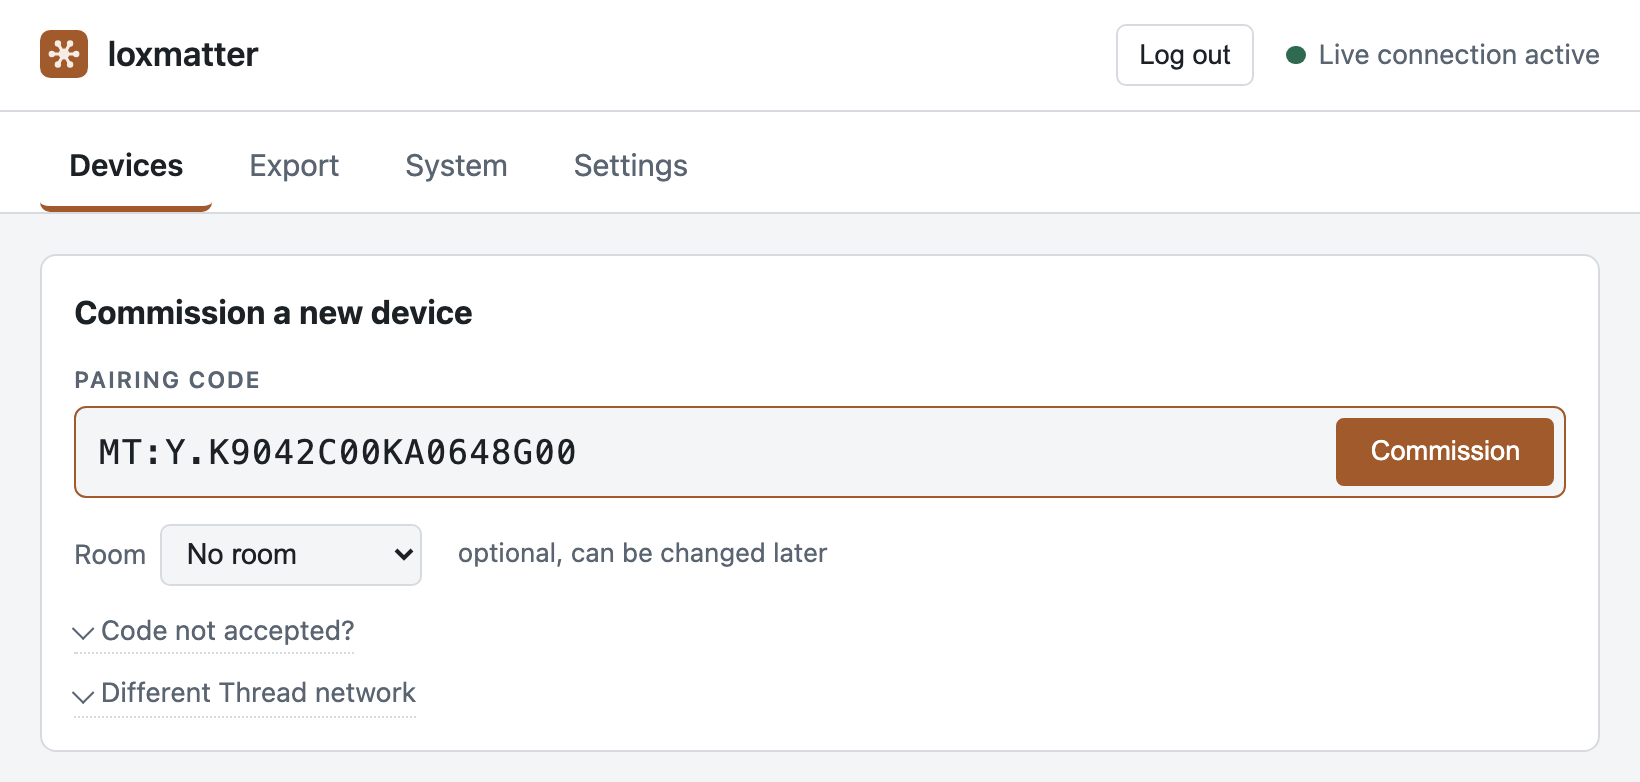
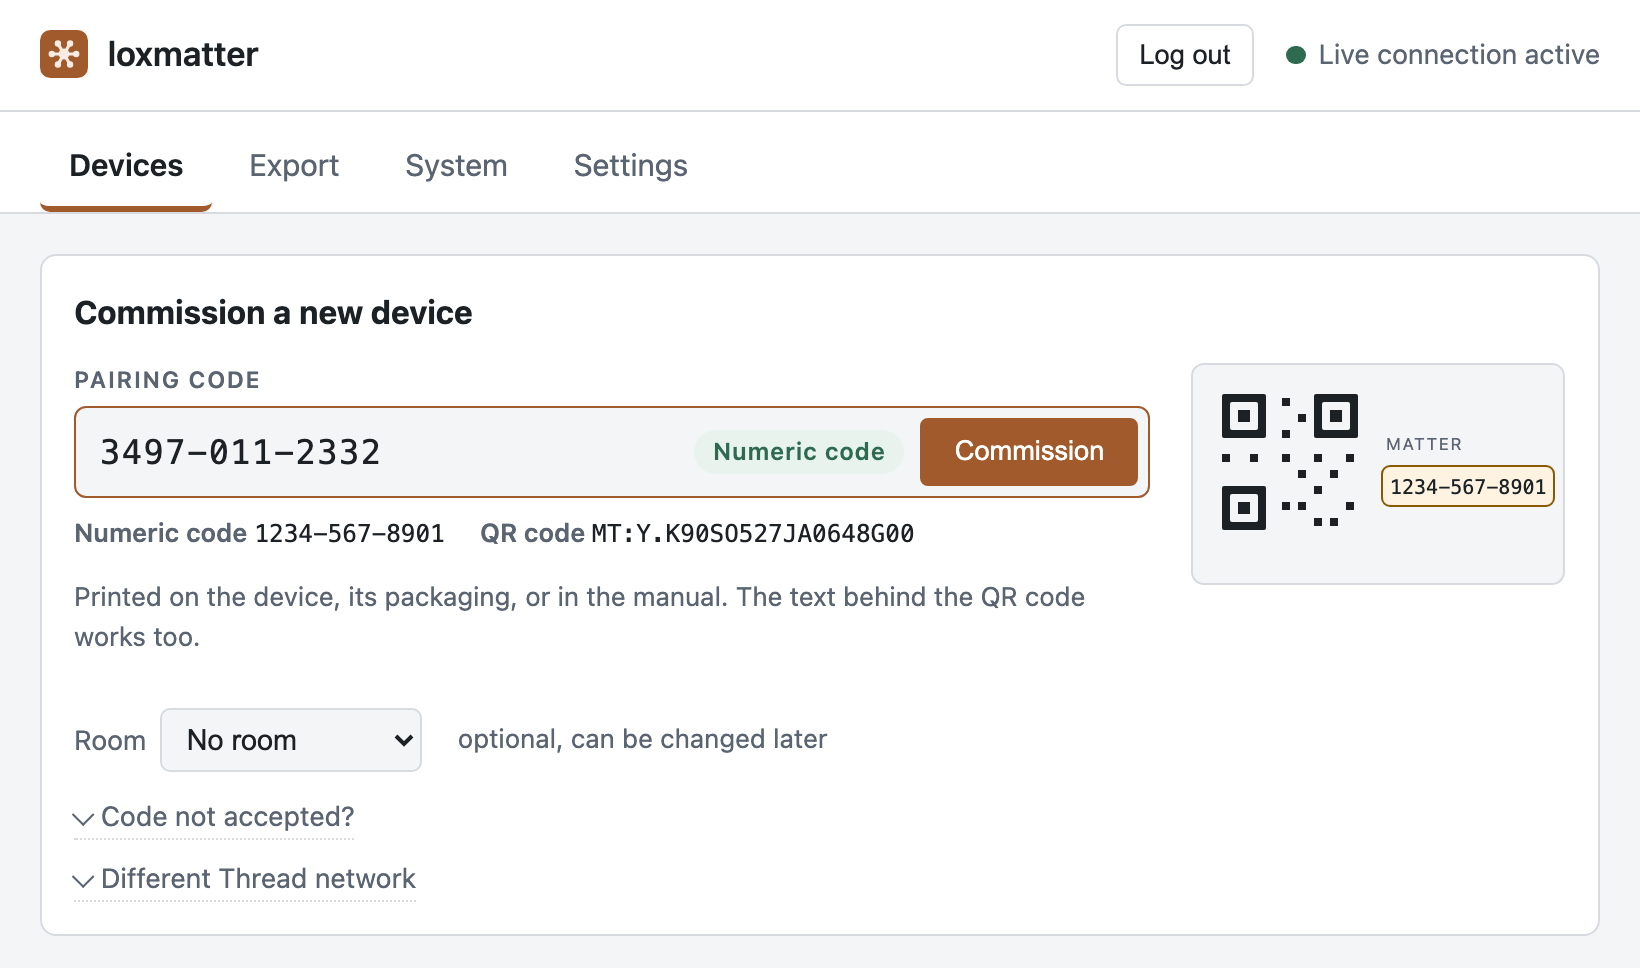
docs(screenshots): Einlern-Karte mit Codeformat neu aufnehmen
Der Selektor haengt nicht mehr am Platzhaltertext - der ist jetzt die
Ziffernfolge selbst, und input[placeholder*="MT:"] fand nichts mehr.

diff --git a/scripts/capture_screenshots.py b/scripts/capture_screenshots.py
@@ -272,7 +272,18 @@ def capture(page: Page) -> None:
     # Dieses Bild traegt Kopf- und Reiterleiste fuer die ganze Galerie, hier
     # also ausdruecklich ab dem Seitenanfang.
     select_view(page, "Devices")
-    page.fill('input[placeholder*="MT:"]', "MT:Y.K9042C00KA0648G00")
+    # Der Selektor haengt am `id`, nicht mehr am Platzhaltertext: der lautete
+    # frueher "Pairing-Code (11-stellig oder MT:…)" und ist seit dem Entwurf
+    # vom 2026-09-07 die Ziffernfolge selbst - `input[placeholder*="MT:"]`
+    # fand danach nichts mehr. Ein `id` aendert sich seltener als ein Text,
+    # der uebersetzt wird.
+    #
+    # Eingesetzt wird jetzt der ZAHLENCODE statt eines MT:-Codes: er ist die
+    # Bauform, die das Bild erklaeren soll, und nur an ihm sind Gruppierung
+    # und Chip ueberhaupt zu sehen. `fill()` loest das `input`-Ereignis aus,
+    # an dem `formatCommissionCode` haengt - im Bild steht die Zahl deshalb
+    # gruppiert, so wie nach dem Tippen.
+    page.fill("#commission-code", "34970112332")
     shoot(
         page,
         "commissioning",
